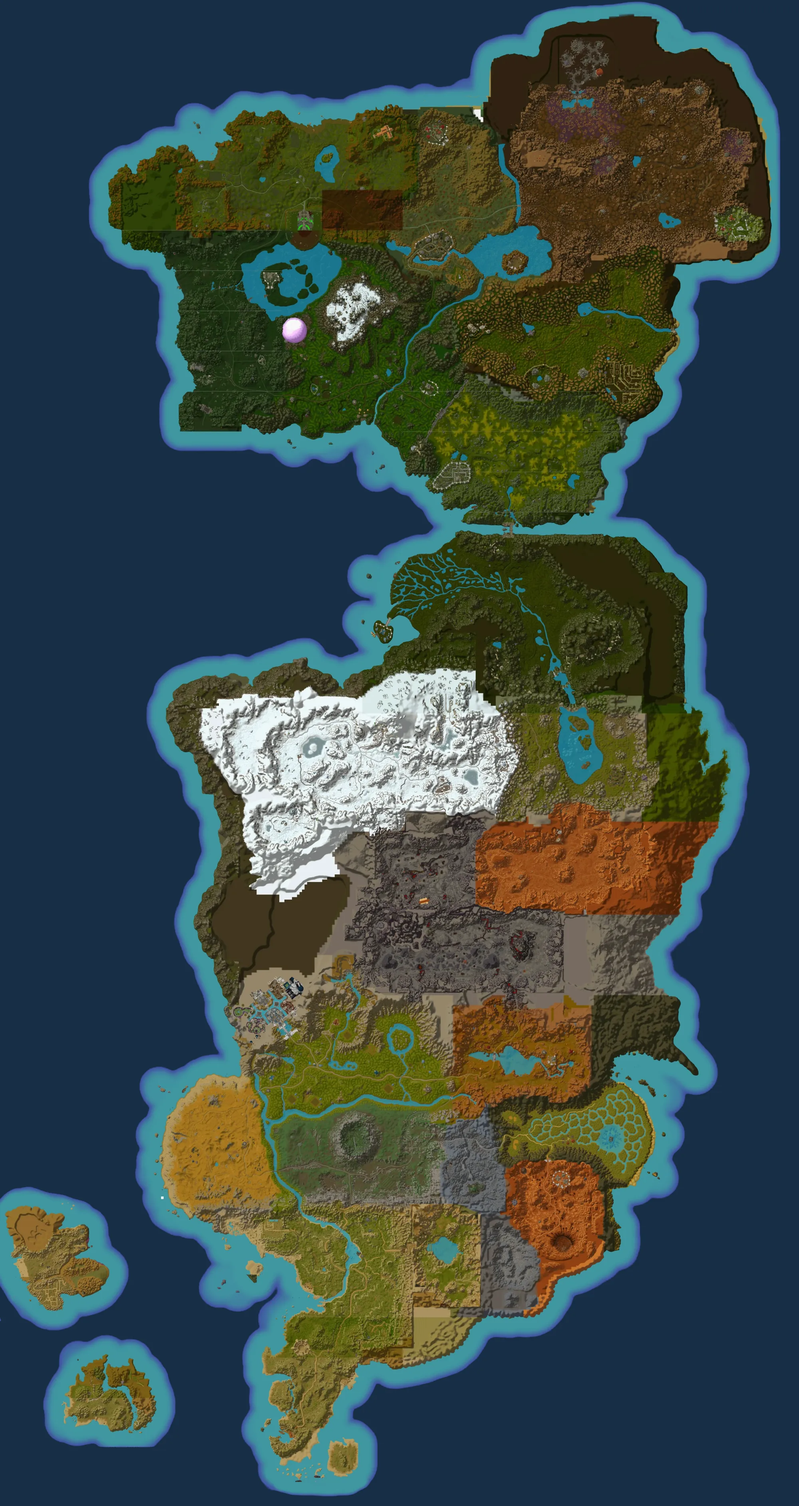
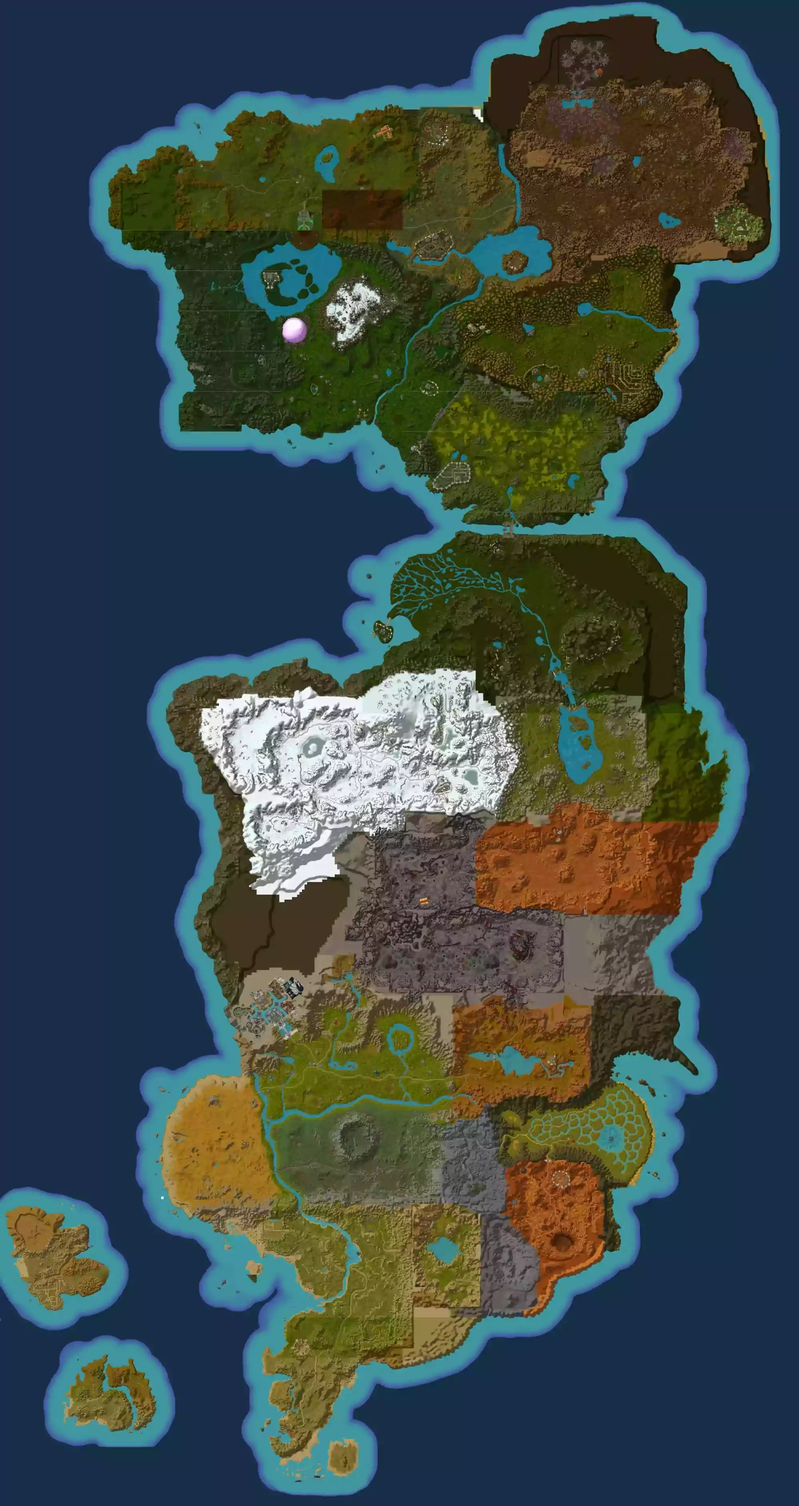
improve map loading to have high def one

Changed region(s): [[0.496, 0.3724, 0.589, 0.4034], [0.775, 0.7138, 0.806, 0.7759], [0.31, 0.6517, 0.372, 0.6828]]

diff --git a/js/magnifier.js b/js/magnifier.js
@@ -8,7 +8,6 @@ var dragging = false; // are we dragging?
 var magnification = 1; // initial magnification
 const zoomFactor = 1.1; // amount to change when you zoom
 const spawnHighlightMaxDistance = 38; // if spawns fall within this number of pixels, show the highlighter
-
 function hideHelp() {
   // hide all these things
   ["spawn-map-help-box", "caroussel_arrows", "spawn-map-highlighter"].forEach(
@@ -138,9 +137,18 @@ function onMouseWheelMapContainer(event) {
 
   magnification *= event.deltaY > 0 ? 1 / zoomFactor : zoomFactor;
 
-  // constrain to 0.5 to 30 magnification
-  magnification = Math.min(magnification, 30);
+  // constrain to 0.5 to 60 magnification
+  magnification = Math.min(magnification, 60);
   magnification = Math.max(magnification, 0.5);
+
+  // load a high def map
+  let mapUseHighDef = currentImage.src.includes("big");
+  if (!mapUseHighDef && magnification > 15) {
+    let mapSplittedSrc = currentImage.src.split(".");
+    let imageName = mapSplittedSrc[0];
+    let imageExt = mapSplittedSrc[1];
+    currentImage.src = `${imageName}_big.${imageExt}`;
+  }
 
   // adjust image size
   currentImage.style.width = currentImage.dataset.width * magnification + "px";
